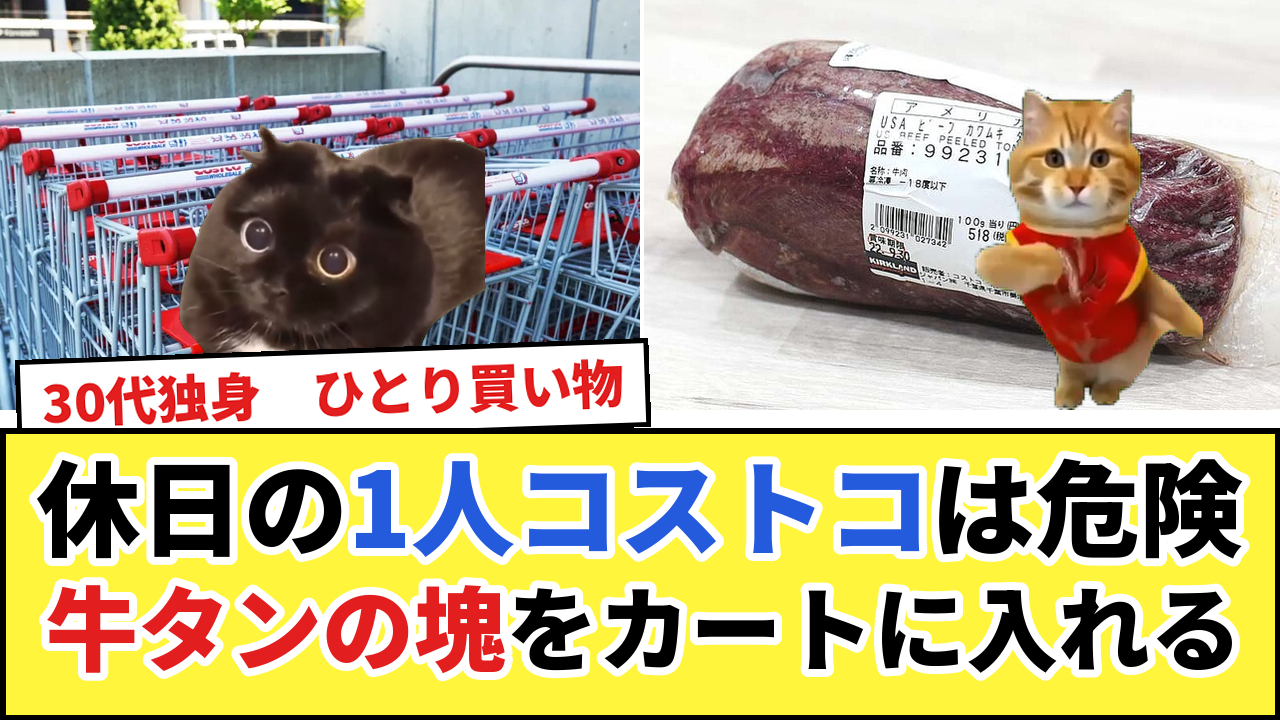
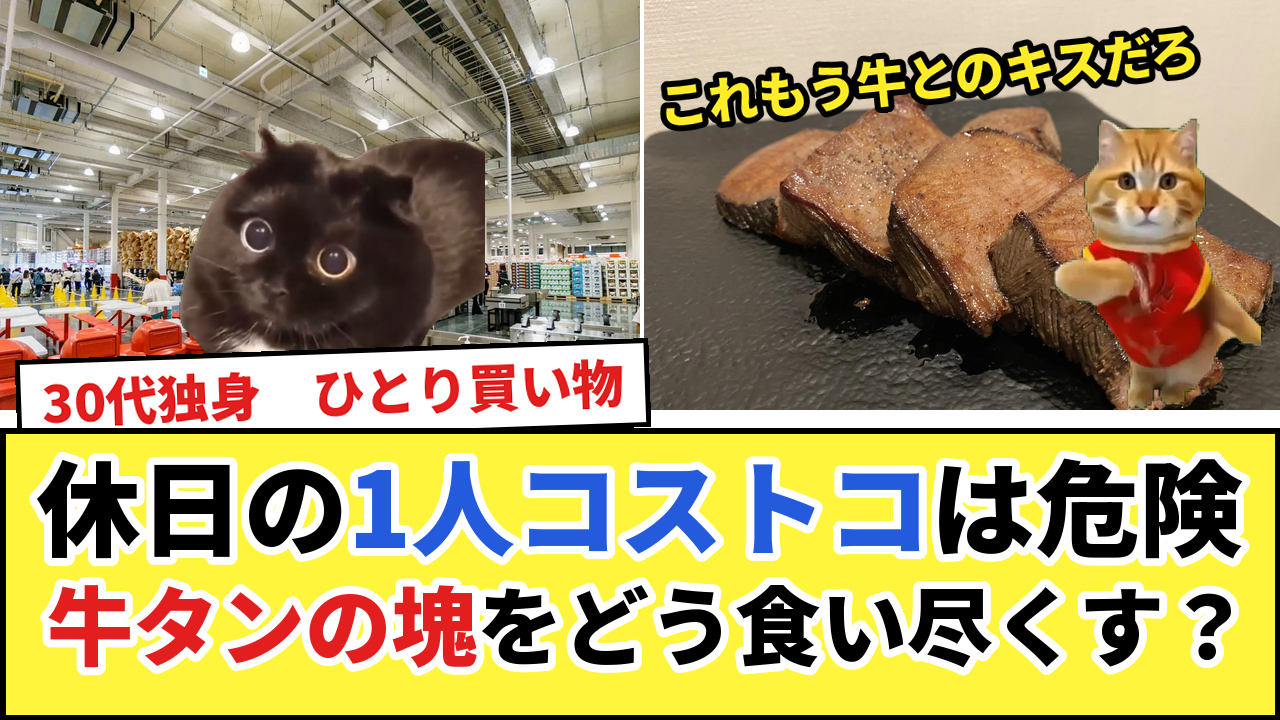
コストコ：サムネA（右に焼いた牛タン＋傾け字幕・2行目を変更）
Claude-Session: https://claude.ai/code/session_011g9CsrfFD5YswfNSvNDW39

diff --git a/catmeme/make_thumb_costco.py b/catmeme/make_thumb_costco.py
@@ -1,9 +1,12 @@
 """自堕落シリーズ #9 コストコのサムネ（11/5 ユーザー指定：いつものAパターン）。
 
 python3 catmeme/make_thumb_costco.py → thumbs/jidaraku_09_costco_thumb_a.png
-左にカート・右に牛タンの塊。札：30代独身 ひとり買い物。字幕：休日の1人コストコは危険／牛タンの塊をカートに入れる
+左：コストコ外観（届くまで店内 c03_entrance）・右：焼いた牛タン（余白に傾け字幕「これもう牛とのキスだろ」）
+札：30代独身 ひとり買い物。字幕：休日の1人コストコは危険／牛タンの塊をどう食い尽くす？
 """
 import os
+
+from PIL import Image
 
 import make_thumb_long_ref as T
 import make_thumb_short_ref as S
@@ -11,15 +14,30 @@ import make_thumb_short_ref as S
 for d in (os.path.join("jidaraku", "09_costco"), "jidaraku"):
     S.BGS.insert(0, os.path.join(T.HERE, "backgrounds", d))
 R, BK = T.RED, T.BLACK
+NAME = "jidaraku_09_costco_thumb_a.png"
+
+
+def left_photo():
+    for n in ("c02_front", "c03_entrance"):   # 外観の写真が届いたら c02_front を優先
+        try:
+            S.bg_path(n) if hasattr(S, "bg_path") else None
+            T.fill_photo(n, 10, 10)
+            return n
+        except Exception:
+            continue
 
 
 def main():
-    T.type_a("jidaraku_09_costco_thumb_a.png", "f_cart", "f_gyutan",
+    T.type_a(NAME, left_photo(), "f_gyutan_yaki",
              ("surprise_big_pupils_cat", 1.0, 330, 410, 300, False),
-             [("excited_hodomoe_city_cat", 1.0, 1080, 410, 330, False)],
+             [("excited_hodomoe_city_cat", 1.0, 1150, 410, 300, False)],
              "30代独身　ひとり買い物",
              [("休日の", BK), ("1人コストコ", T.BLUE), ("は危険", BK)],
-             [("牛タンの塊", R), ("をカートに入れる", BK)], split=640, size=104)
+             [("牛タンの塊", R), ("をどう食い尽くす？", BK)], split=640, size=104)
+    p = os.path.join(T.HERE, "thumbs", NAME)
+    img = Image.open(p).convert("RGBA")
+    T.scribble(img, "これもう牛とのキスだろ", 930, 78, 50, T.YELLOW, angle=6)
+    T.save(img, NAME)
 
 
 if __name__ == "__main__":
